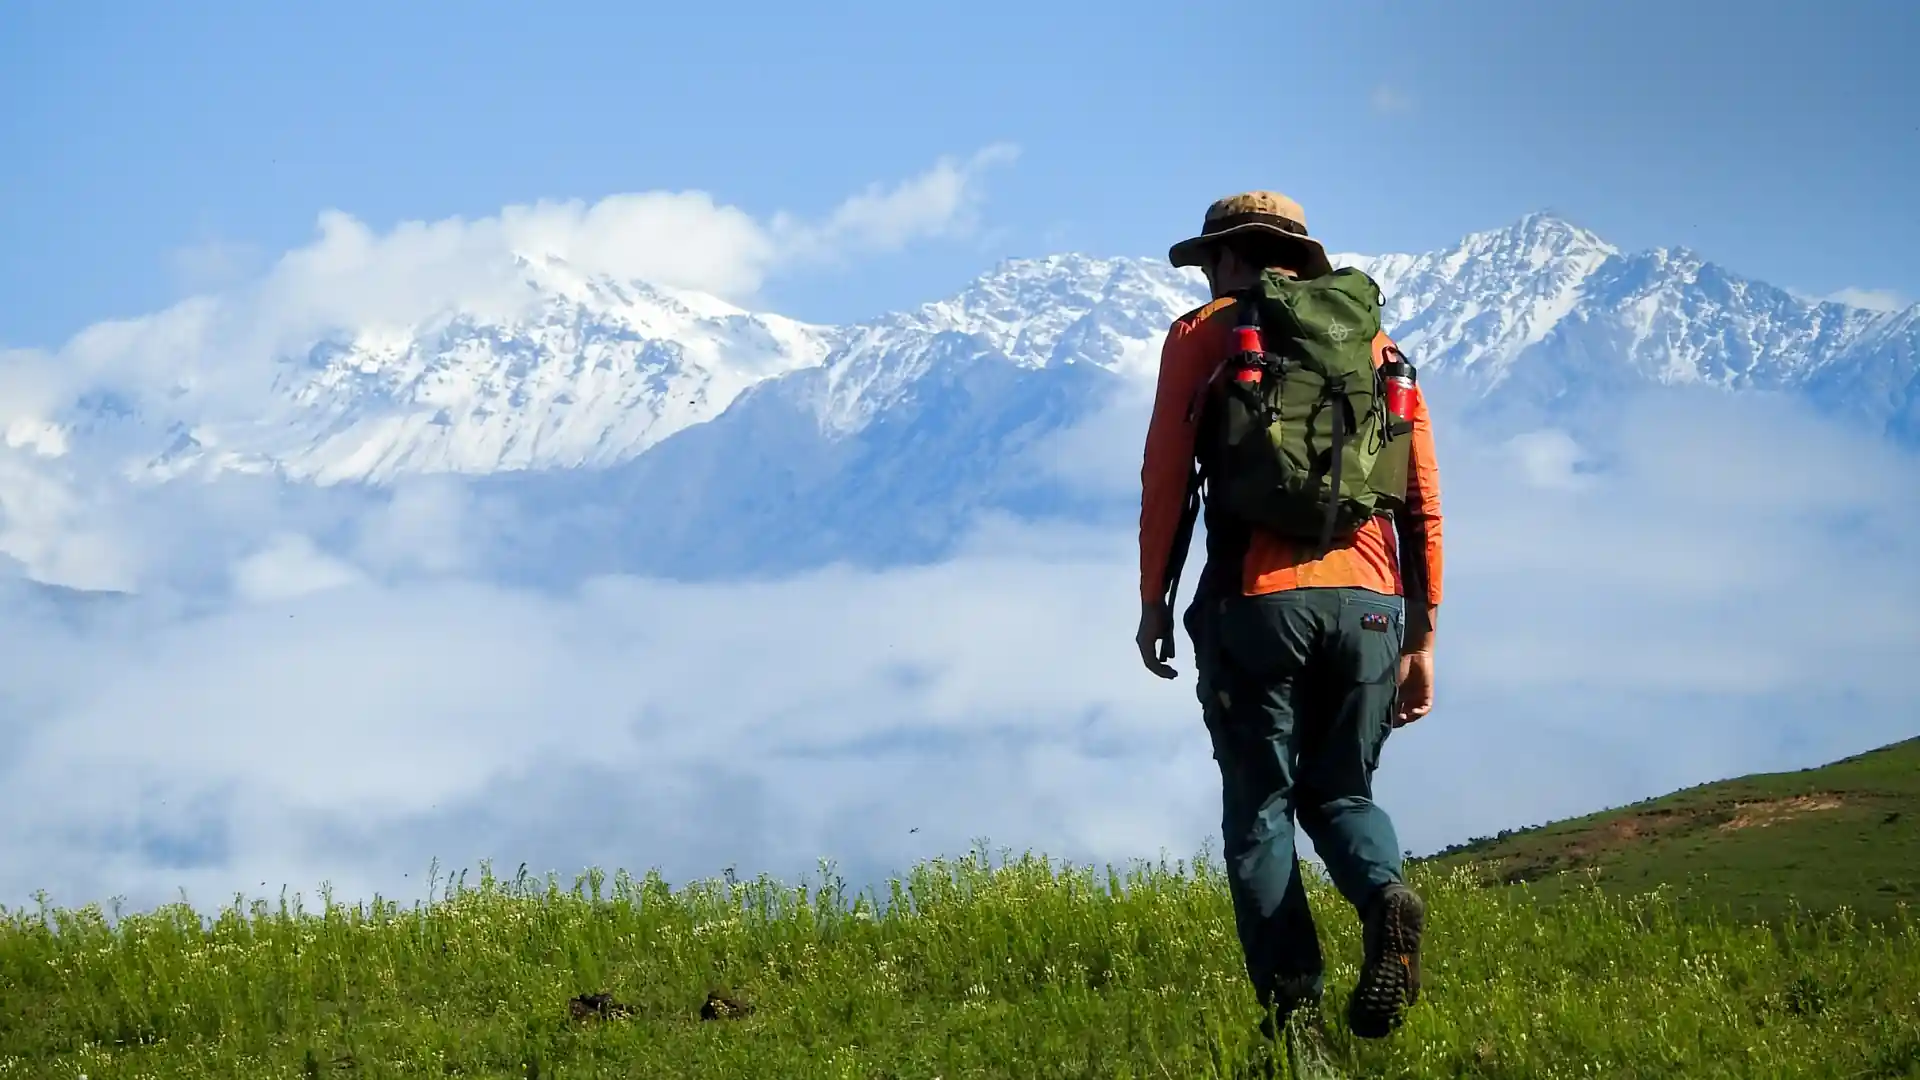
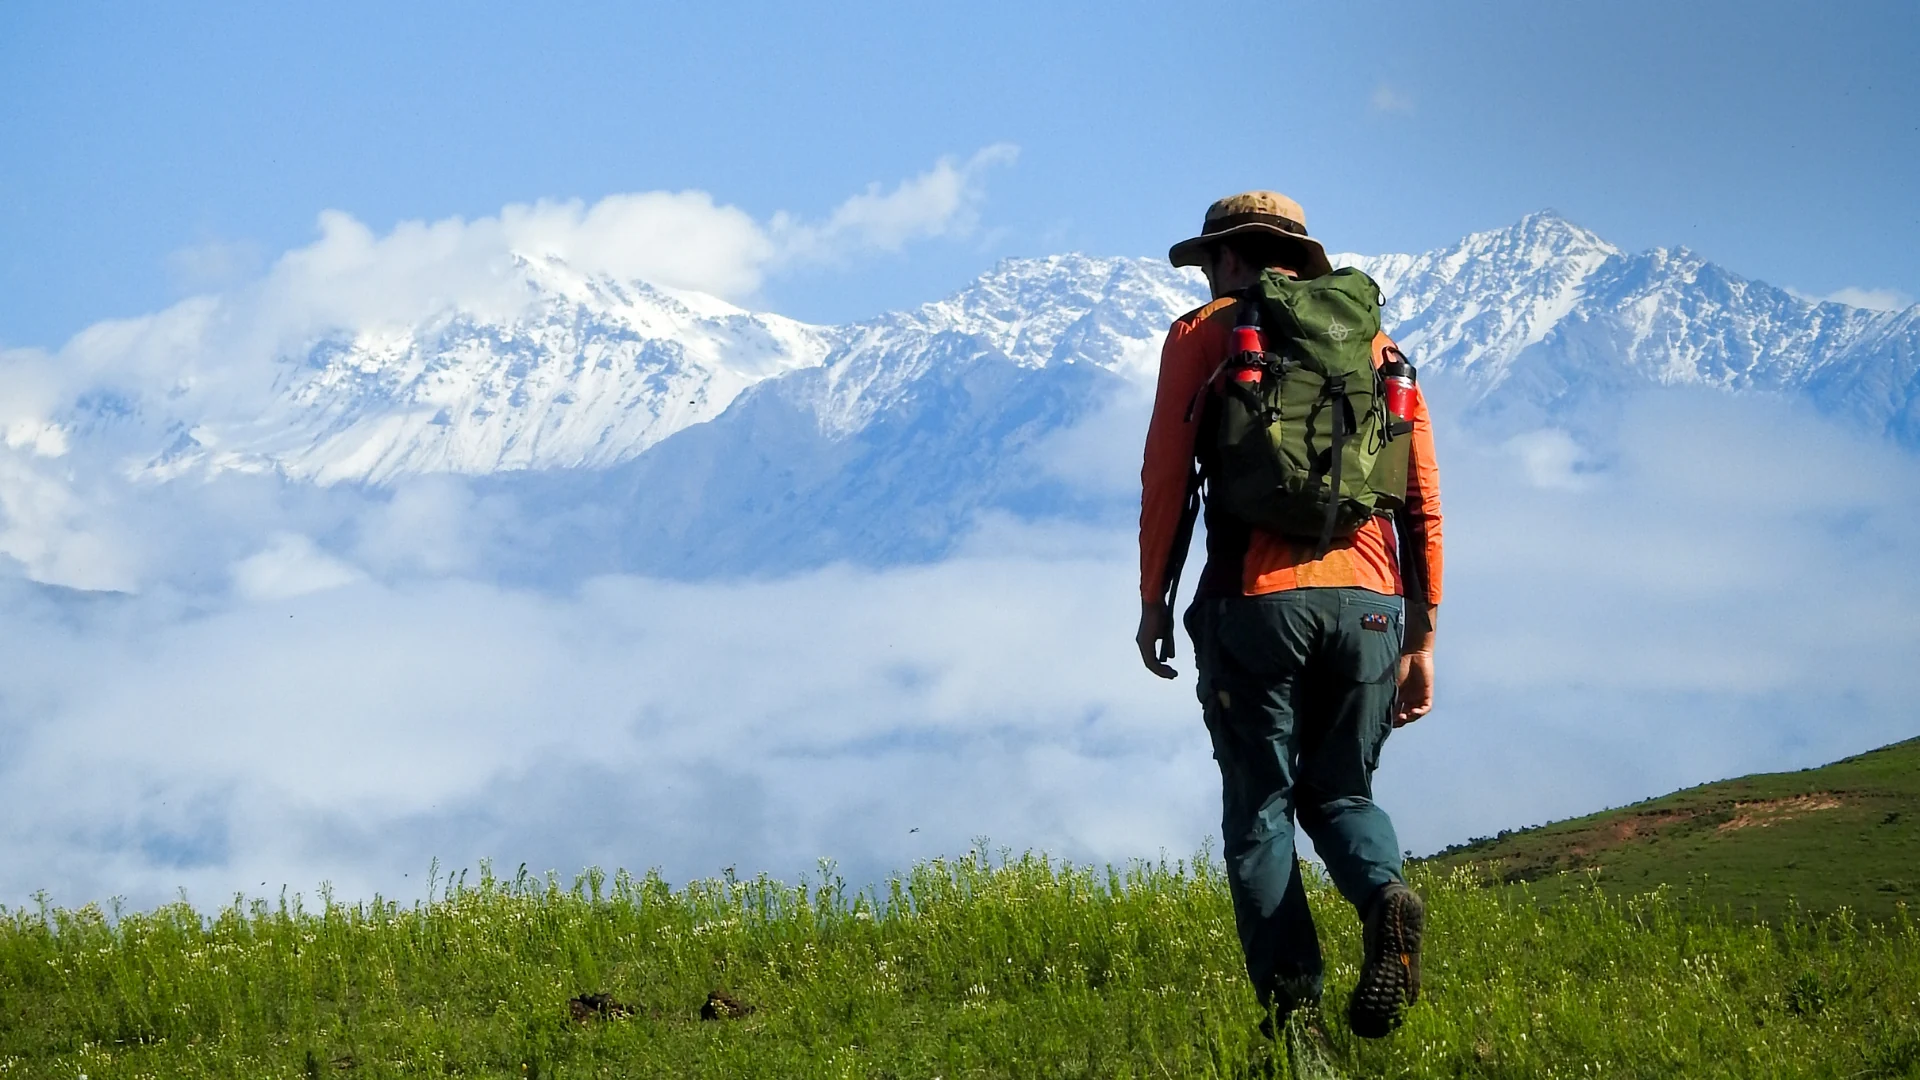
On branch main

diff --git a/html/segundo_nivel/noches_estrelladas.html b/html/segundo_nivel/noches_estrelladas.html
@@ -270,7 +270,7 @@
               <!-- Foto 1: grande (span 7×2) -->
               <div class="gallery-item">
                 <img
-                  src="../../imagenes/planetario/planetario_3.png"
+                  src="../../imagenes/planetario/planetario_3.webp"
                   data-full=""
                   alt="Cielo estrellado sobre la Sierra de Narváez, junto al Planetario Janaxpacha Huasi">
                 <div class="gallery-overlay">
@@ -285,7 +285,7 @@
               <!-- Foto 2 -->
               <div class="gallery-item">
                 <img
-                  src="../../imagenes/planetario/planetario_4.jpeg"
+                  src="../../imagenes/planetario/planetario_4.webp"
                   data-full=""
                   alt="Telescopio profesional apuntando al cielo nocturno">
                 <div class="gallery-overlay">
@@ -299,7 +299,7 @@
               <!-- Foto 4 -->
               <div class="gallery-item">
                 <img
-                  src="../../imagenes/planetario/noche.jpeg"
+                  src="../../imagenes/planetario/noche.webp"
                   data-full=""
                   alt="Sierra de Narváez, entorno montañoso del planetario">
                 <div class="gallery-overlay">
@@ -314,7 +314,7 @@
               <!-- Foto 4 -->
               <div class="gallery-item">
                 <img
-                  src="../../imagenes/planetario/planetario_2.jpeg"
+                  src="../../imagenes/planetario/planetario_2.webp"
                   data-full=""
                   alt="Sierra de Narváez, entorno montañoso del planetario">
                 <div class="gallery-overlay">
@@ -366,7 +366,7 @@
                 </div>
                 <div>
                   <div class="info-row-label">Duración</div>
-                  <div class="info-row-val">2 a 3 horas por visita</div>
+                  <div class="info-row-val">1 a 2 horas por visita</div>
                 </div>
               </div>
 

diff --git a/index.html b/index.html
@@ -75,13 +75,13 @@
 <!-- INTRO -->
 <section class="intro">
   <div class="container reveal">
-    <div class="eyebrow">Catamarca · Argentina</div>
-    <h2>A los pies de los Nevados, donde la Sierra del Aconquija toca el cielo.</h2>
+    <div class="eyebrow">Aconquija - Catamarca - Argentina</div>
+    <h2>"La luz de la luna sobre la nieve en las alturas"</h2>
     <p class="lead">Aconquija es un pueblo de paso lento, abrazado por una de las sierras más altas del país. Acá la niebla baja por las laderas al amanecer, los arroyos de altura cortan senderos de piedra y cada vecino conoce una historia distinta sobre la montaña. Venimos guardando este lugar para quien busca algo real y emocionante.</p>
     <div class="intro-stats">
       <div class="stat"><b>+5.500m</b><span>Altura de los Nevados</span></div>
-      <div class="stat"><b>3.000</b><span>Habitantes</span></div>
-      <div class="stat"><b>16</b><span>Localidades</span></div>
+      <div class="stat"><b>3.165</b><span>Habitantes</span></div>
+      <div class="stat"><b>22</b><span>Localidades</span></div>
     </div>
   </div>
 </section>
@@ -94,7 +94,7 @@
         <div class="eyebrow">Qué hacer</div>
         <h2>Explorá Aconquija a tu manera</h2>
       </div>
-      <p>Excursiones guiadas, senderos por cuenta propia o itinerarios armados con gente del lugar. Vos elegís el ritmo.</p>
+      <p>Recorré Aconquija a través de nuestros circuitos turísticos, diseñados para que vivas una experiencia inolvidable.</p>
     </div>
     <div class="card-grid reveal">
       <a class="exp-card" href="html/segundo_nivel/cultiva_tradicion.html">

diff --git a/html/tercer_nivel/fiesta_bandoneon.html b/html/tercer_nivel/fiesta_bandoneon.html
@@ -95,13 +95,13 @@
           <svg viewBox="0 0 24 24" fill="none" stroke="currentColor" stroke-width="1.6">
             <circle cx="12" cy="12" r="10"/><path d="M12 6v6l4 2"/>
           </svg>
-          Un día, mediados de enero
+          _
         </div>
         <div class="meta-item">
           <svg viewBox="0 0 24 24" fill="none" stroke="currentColor" stroke-width="1.6">
             <path d="M3 17l4-8 4 4 4-6 4 4"/>
           </svg>
-          Entrada libre y gratuita
+          _
         </div>
         <div class="meta-item">
           <svg viewBox="0 0 24 24" fill="none" stroke="currentColor" stroke-width="1.6">
